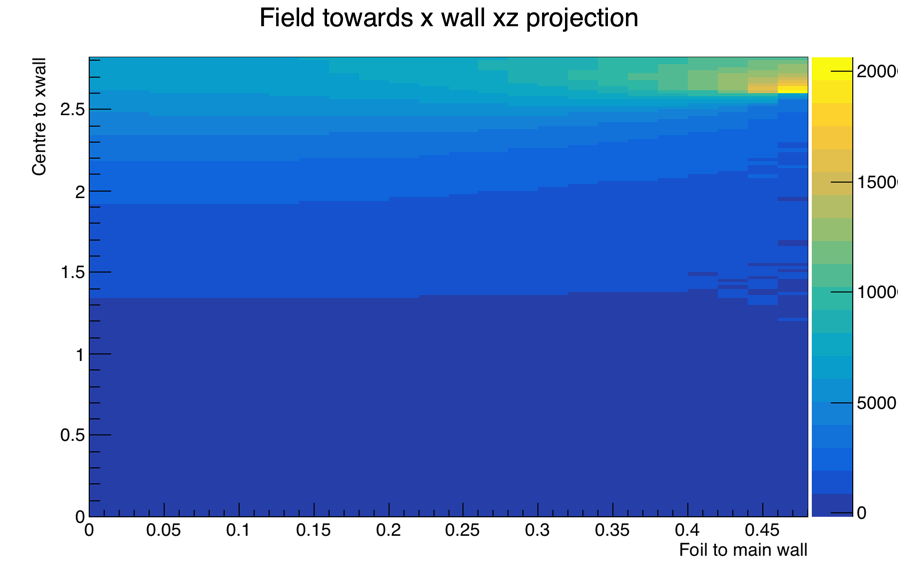
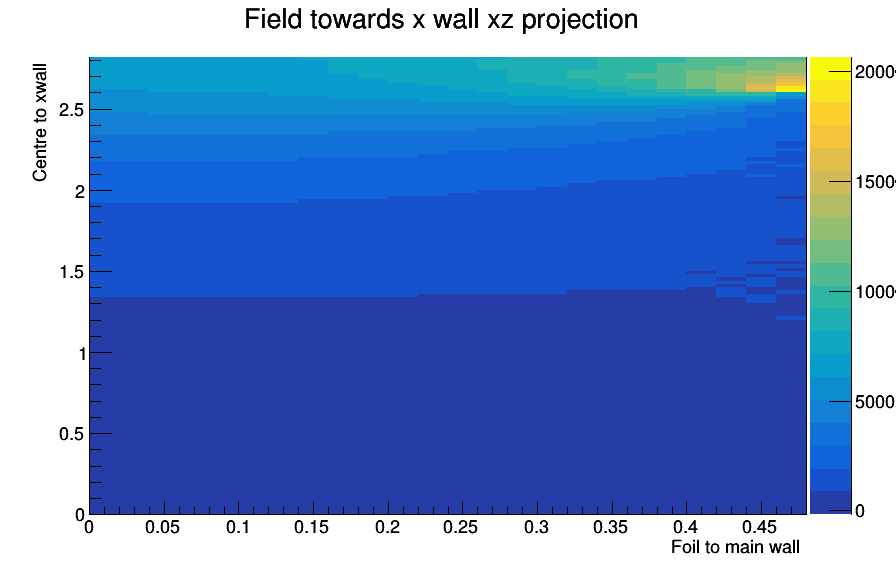
Added 2d projection but suspect coordinates are wrong

diff --git a/parseFieldMap.cpp b/parseFieldMap.cpp
@@ -192,4 +192,11 @@ void MakePlotSet(TH3D *totalfield, int ybin, string text)
   leg->Draw();
   
   c->SaveAs((text+"_offsets_all.png").c_str());
+  
+  // Select only the ybin in question
+  TH3D *temp3d = (TH3D*)totalfield->Clone();
+  temp3d->GetYaxis()->SetRange(ybin,ybin);
+  TH2D *plot2d = (TH2D*)temp3d->Project3D("xz");
+  plot2d->Draw("COLZ");
+  c->SaveAs((text+"_2d.png").c_str());
 }
